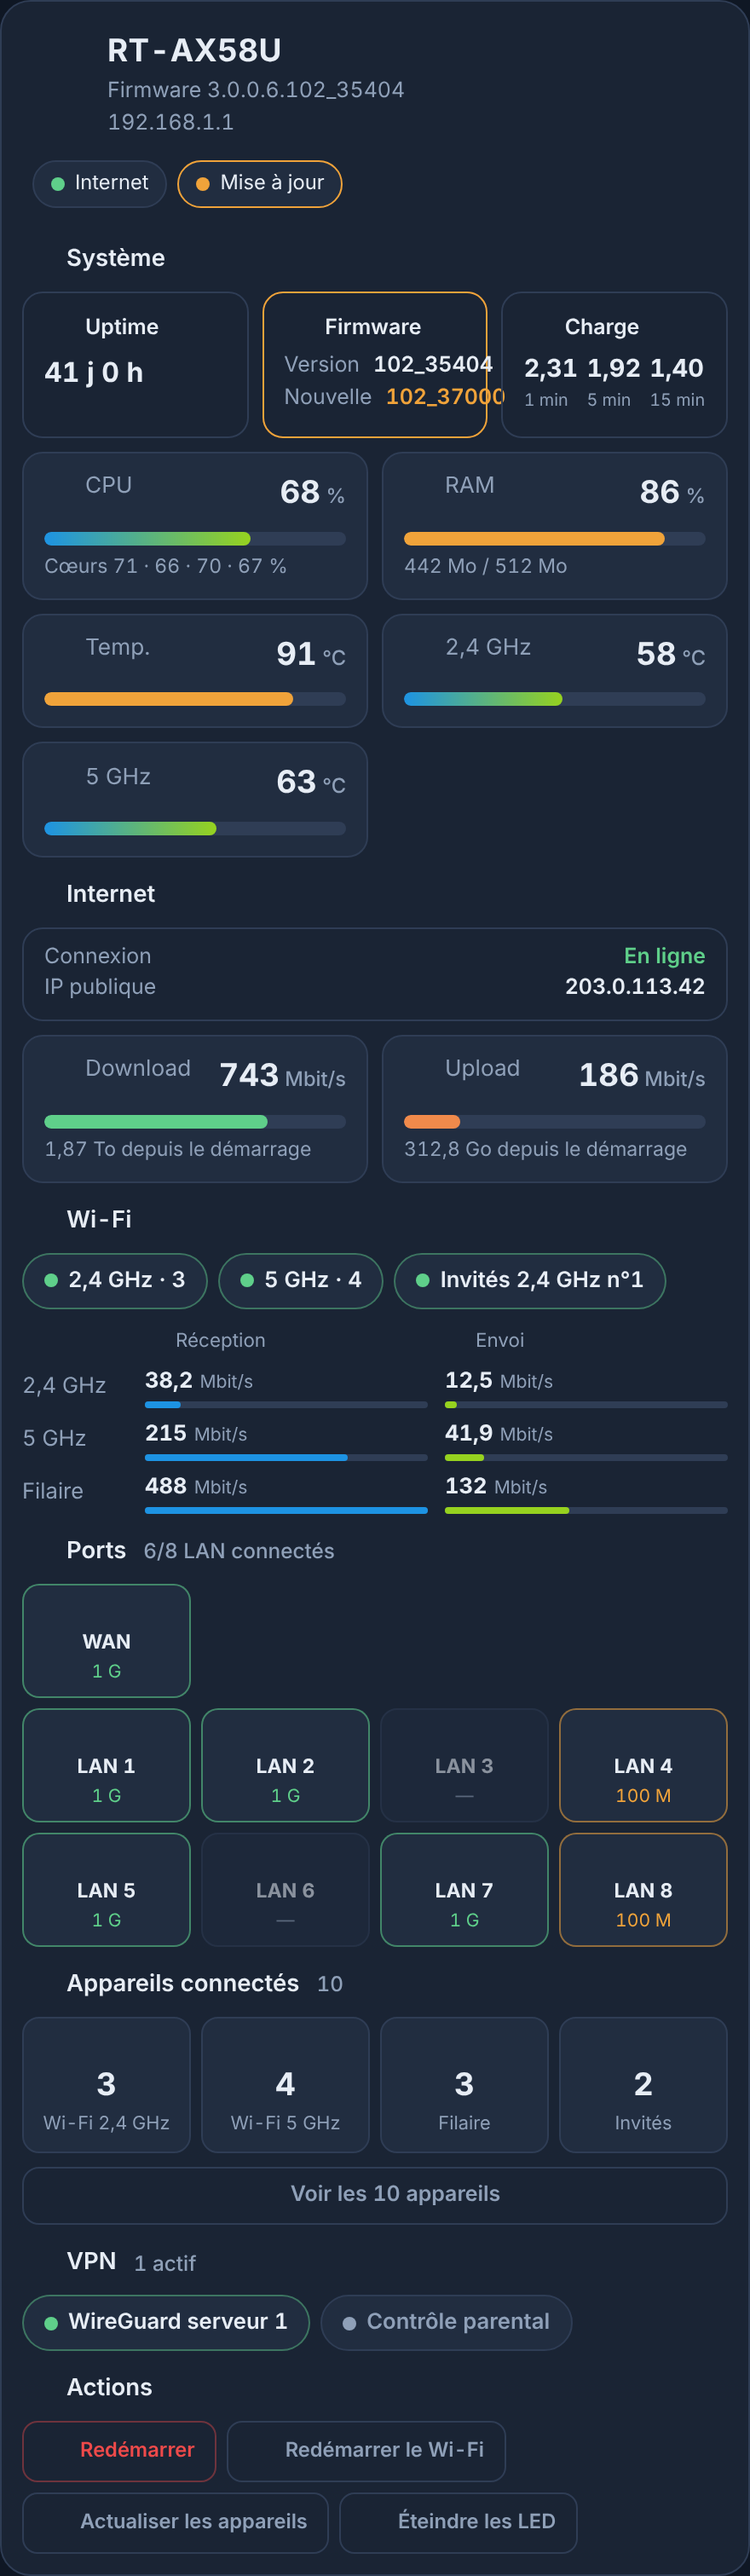
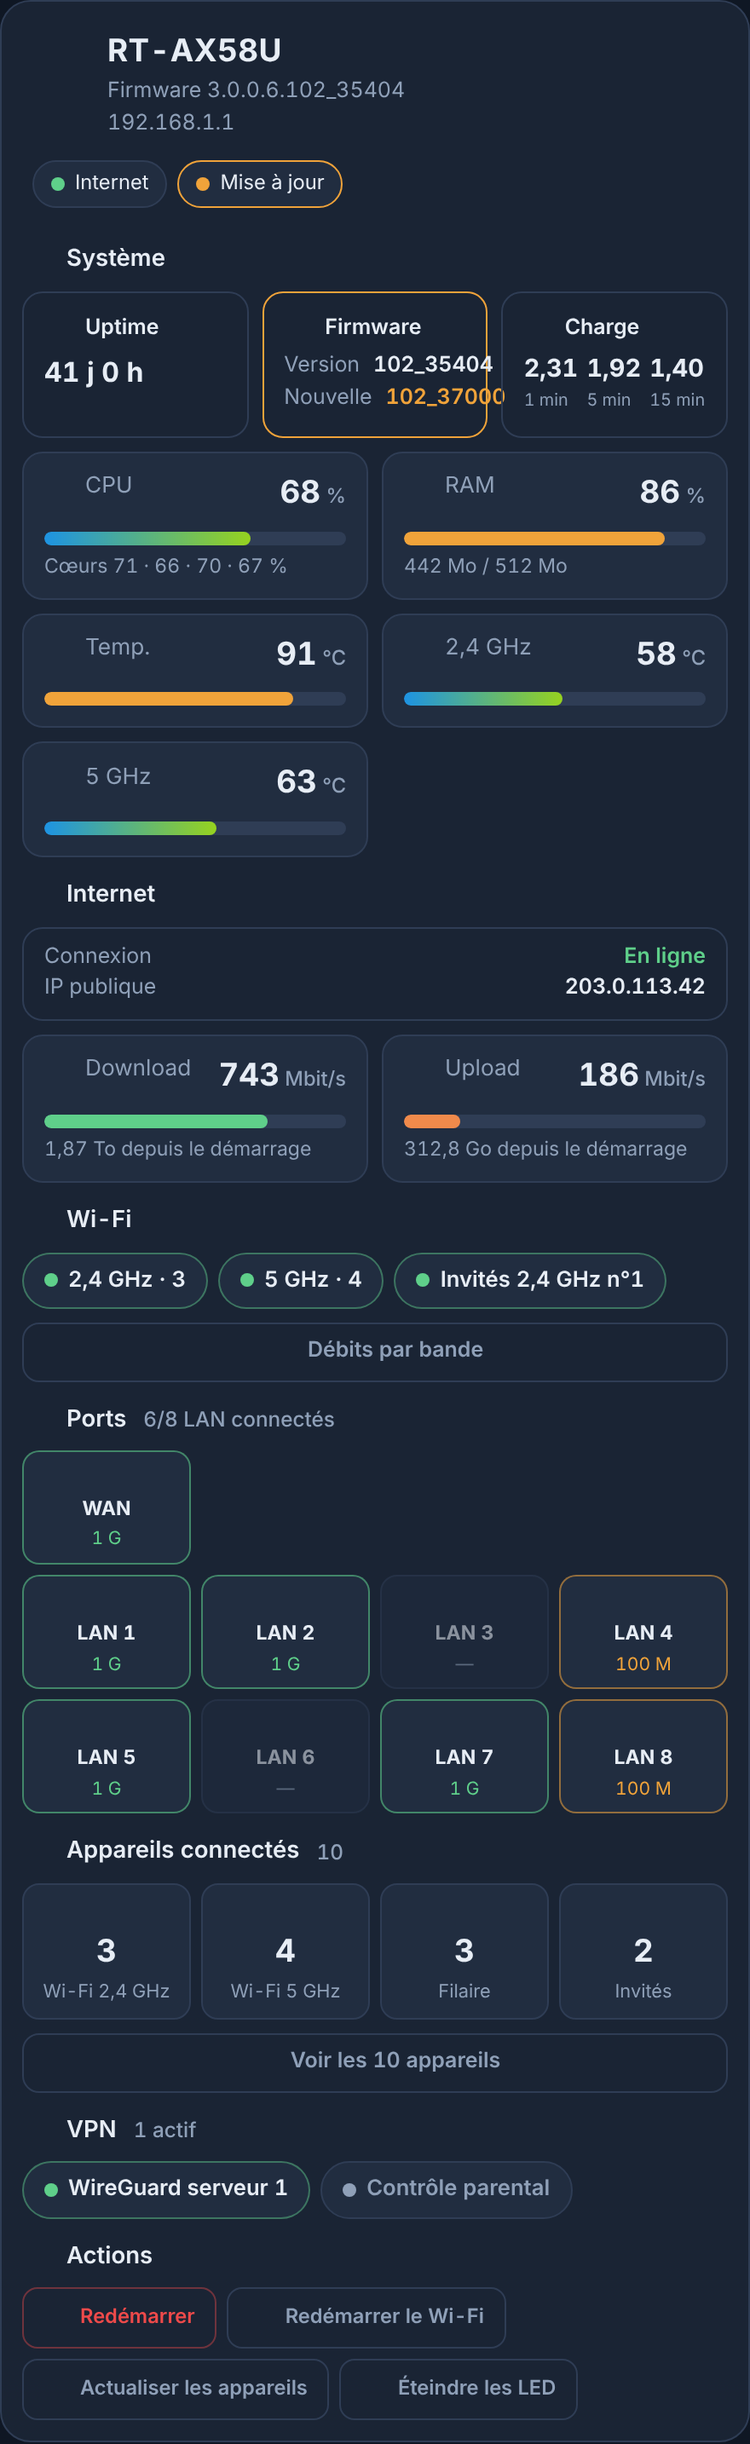
feat(web): débits Wi-Fi par bande dans un dépliant, carte Routeur ASUS (0.10.0-beta.5)
Les débits en réception et en envoi par bande et en filaire sont repliés
par défaut ; le bouton « Débits par bande » les déplie.

Claude-Session: https://claude.ai/code/session_01SRKBBjDQfQhyTgJMcHgPqQ

diff --git a/serveur-ha-card.js b/serveur-ha-card.js
@@ -19,7 +19,7 @@
  */
 
 (() => {
-const CARD_VERSION = "0.10.0-beta.4";
+const CARD_VERSION = "0.10.0-beta.5";
 
 /* ------------------------------------------------------------- affichage */
 
@@ -2085,6 +2085,13 @@ class ServeurHaAsusCard extends HTMLElement {
     if (!this.shadowRoot) this.attachShadow({ mode: "open" });
     if (!this._clicks) {
       this.shadowRoot.addEventListener("click", (this._clicks = (ev) => {
+        const fold = ev.target.closest?.("[data-fold]");
+        if (fold) {
+          // débits par bande : déplier ou replier
+          ev.stopPropagation();
+          this._fold = this._fold === fold.dataset.fold ? null : fold.dataset.fold;
+          this._sig = null; this._render(); return;
+        }
         const filter = ev.target.closest?.("[data-devs]");
         if (filter) {
           // liste des appareils : « Voir tous » ou une tuile (Wi-Fi 2,4 GHz, 5 GHz, filaire) déplie ou replie la liste
@@ -2188,7 +2195,7 @@ class ServeurHaAsusCard extends HTMLElement {
     const m = this._resolve();
     const r = m.roles;
     const ids = [...Object.values(r), ...m.guests, ...m.vpns];
-    const sig = `${c.theme}|${this._hass.themes?.darkMode}|${this._armed}|${this._devs}|${Math.floor(Date.now() / 60000)}|` + ids.map((id) => { const s = this._st(id); return s ? `${s.state}|${s.last_updated}` : "-"; }).join("|");
+    const sig = `${c.theme}|${this._hass.themes?.darkMode}|${this._armed}|${this._devs}|${this._fold}|${Math.floor(Date.now() / 60000)}|` + ids.map((id) => { const s = this._st(id); return s ? `${s.state}|${s.last_updated}` : "-"; }).join("|");
     if (sig === this._sig) return;
     this._sig = sig;
 
@@ -2304,10 +2311,13 @@ class ServeurHaAsusCard extends HTMLElement {
         const rows = [["2,4 GHz", r.w24_rx, r.w24_tx], ["5 GHz", r.w5_rx, r.w5_tx], ["Filaire", r.lan_rx, r.lan_tx]]
           .filter(([, rx, tx]) => mbit(rx) !== null || mbit(tx) !== null)
           .map(([label, rx, tx]) => `<div class="asus-row"><span class="asus-rl">${label}</span>${bar(rx, "in")}${bar(tx, "out")}</div>`);
-        const rates = rows.length ? [`<div class="asus-rates"><div class="asus-row asus-rh"><span></span><span><ha-icon icon="mdi:download"></ha-icon>Réception</span><span><ha-icon icon="mdi:upload"></ha-icon>Envoi</span></div>${rows.join("")}</div>`] : [];
+        // repliés par défaut : le bouton « Débits par bande » les déplie
+        const ratesOpen = this._fold === "rates";
+        const ratesBtn = rows.length ? `<button class="asus-more ${ratesOpen ? "on" : ""}" data-fold="rates"><ha-icon icon="${ratesOpen ? "mdi:chevron-up" : "mdi:chevron-down"}"></ha-icon>${ratesOpen ? "Réduire" : "Débits par bande"}</button>` : "";
+        const rates = rows.length && ratesOpen ? [`<div class="asus-rates"><div class="asus-row asus-rh"><span></span><span><ha-icon icon="mdi:download"></ha-icon>Réception</span><span><ha-icon icon="mdi:upload"></ha-icon>Envoi</span></div>${rows.join("")}</div>`] : [];
         const guestTxt = m.guests.length ? `<div class="asus-note">${guestOn.length ? "" : "Aucun réseau invité actif"}</div>` : "";
-        wifi = sec("mdi:wifi", "Wi-Fi", bands.length || rates.length
-          ? `${bands.length || guests.length ? `<div class="omv-svcs">${bands.join("")}${guests.join("")}</div>` : ""}${guestOn.length ? "" : guestTxt}${rates.join("")}`
+        wifi = sec("mdi:wifi", "Wi-Fi", bands.length || ratesBtn
+          ? `${bands.length || guests.length ? `<div class="omv-svcs">${bands.join("")}${guests.join("")}</div>` : ""}${guestOn.length ? "" : guestTxt}${rates.join("")}${ratesBtn}`
           : "");
       }
 

diff --git a/README.md b/README.md
@@ -333,7 +333,7 @@ Tout est ensuite détecté :
 - **En-tête** : modèle, version du firmware, adresse IP du routeur, voyants **Internet** (vert ou rouge), **Internet bloqué** et **Mise à jour**.
 - **Système** : uptime, firmware (à jour ou nouvelle version), charge moyenne (1, 5 et 15 min), jauges **CPU** (avec chaque cœur), **RAM** (Mo utilisés sur le total) et températures du processeur et des radios Wi-Fi (orange à 80 °C, rouge à 95 °C).
 - **Internet** : connexion, IP publique, débits download et upload, volume échangé depuis le démarrage du routeur.
-- **Wi-Fi** : bandes 2,4 et 5 GHz (activées ou non, nombre d'appareils, SSID au survol), réseaux invités actifs, débits en réception et en envoi par bande et en filaire. Seul le SSID est lu : le mot de passe du Wi-Fi, que l'intégration expose, n'est jamais affiché.
+- **Wi-Fi** : bandes 2,4 et 5 GHz (activées ou non, nombre d'appareils, SSID au survol), réseaux invités actifs. **Débits par bande** déplie les débits en réception et en envoi par bande et en filaire. Seul le SSID est lu : le mot de passe du Wi-Fi, que l'intégration expose, n'est jamais affiché.
 - **Ports** : port WAN sur sa ligne, puis les ports LAN par lignes de 4 (8 ports : 2 lignes), connectés à 1 Gbit/s (vert), 100 Mbit/s (orange) ou déconnectés.
 - **Appareils connectés** : nombre total, en Wi-Fi 2,4 GHz, 5 GHz, filaire et sur le réseau invités. La liste est repliée : **Voir les appareils** déplie les dernières connexions et la liste complète (nom, adresse IP, connexion, depuis quand), **Réduire** la replie. Un clic sur une tuile (Wi-Fi 2,4 GHz, 5 GHz, filaire) n'affiche que ces appareils.
 - **VPN** : clients et serveurs OpenVPN ou WireGuard actifs, contrôle parental.
